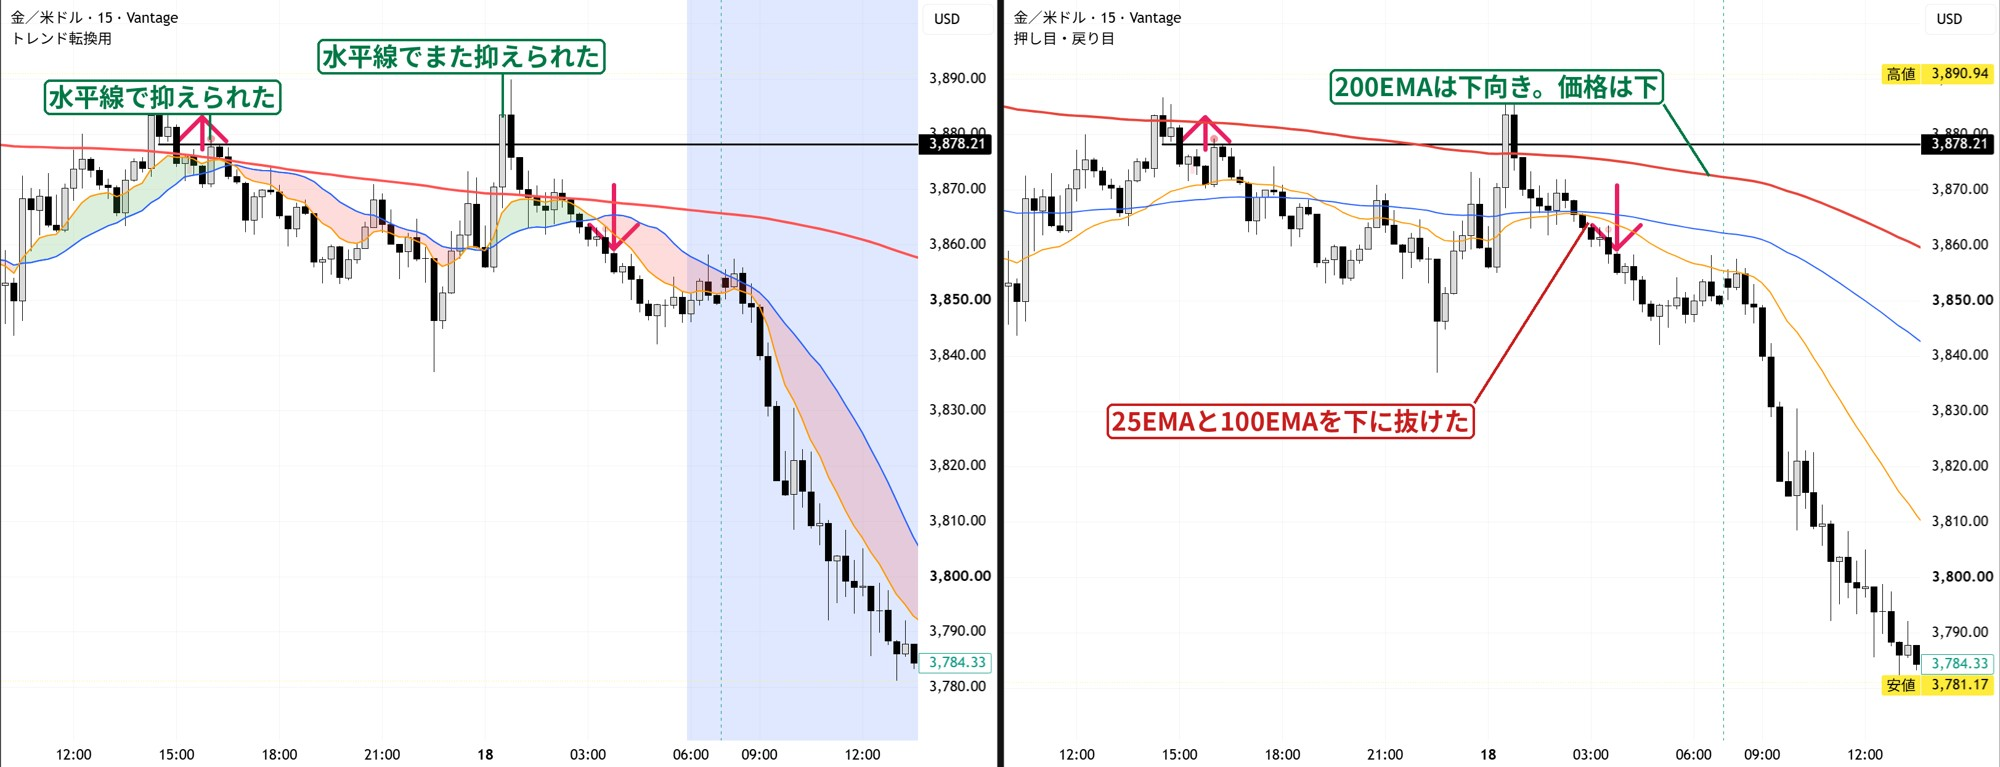
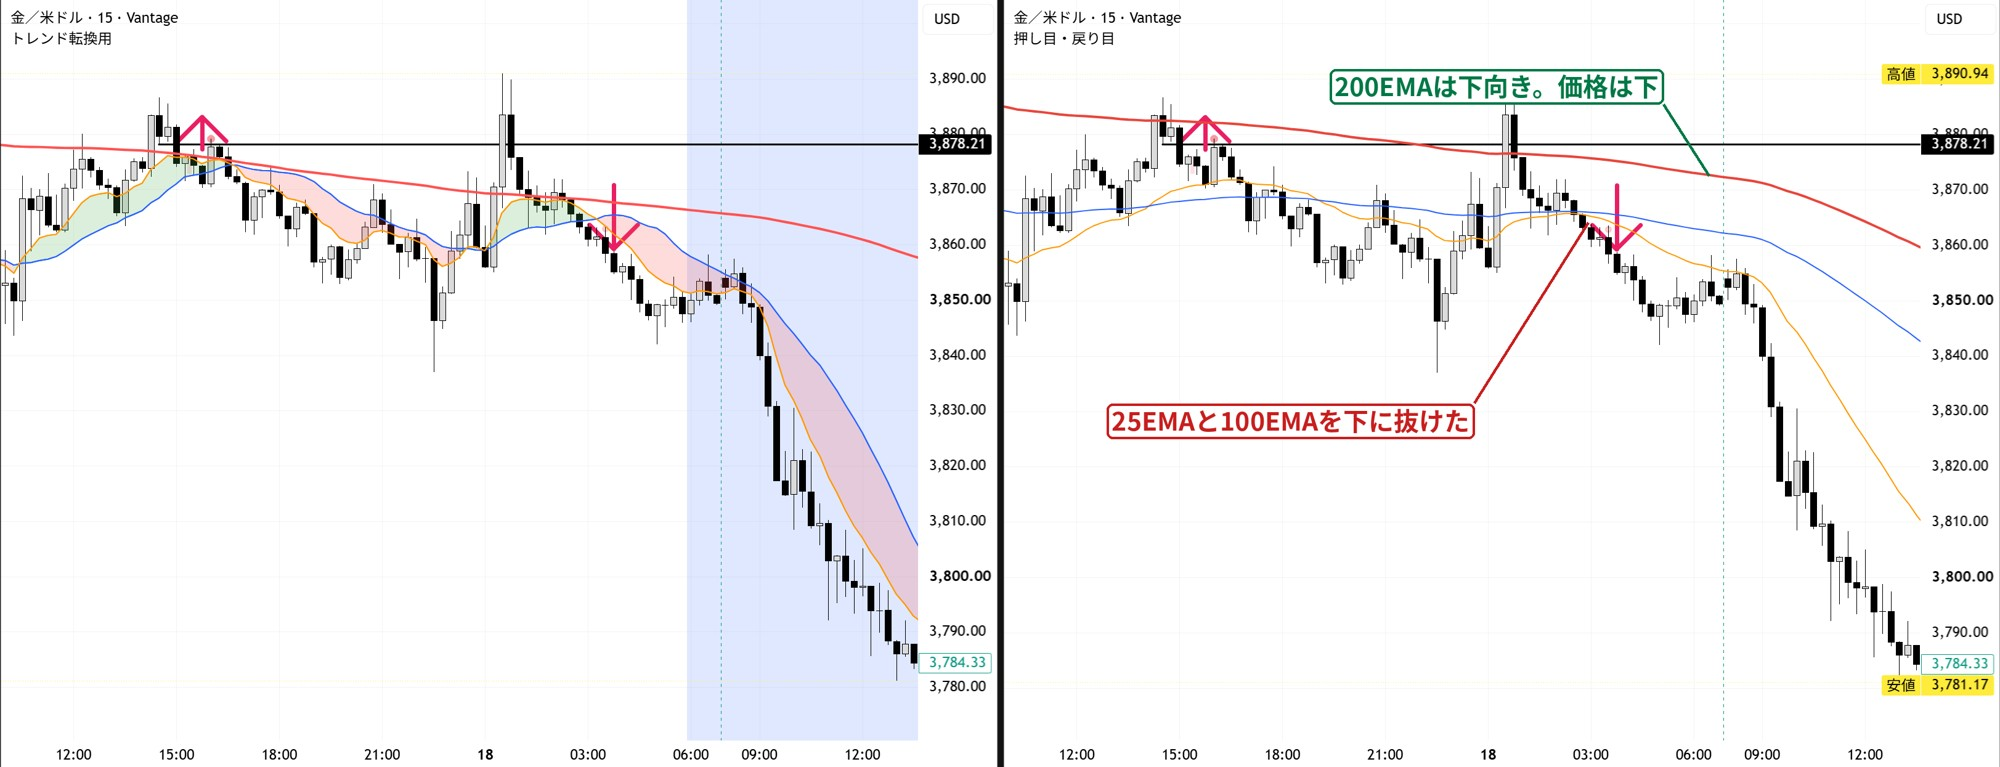
例19: 水平線の記述とラベルを削除
Claude-Session: https://claude.ai/code/session_01HxS9YaEfLR2yPnioVsHz63

Changed region(s): [[0.0, 0.03, 0.31, 0.1799]]

diff --git a/reversal.html b/reversal.html
@@ -95,11 +95,11 @@ body.lb-open { overflow: hidden; }
     </figure>
     <h3 class="part">15分足</h3>
     <figure class="pic wide">
-      <a href="methods/rev-start-15m.jpg"><img src="methods/rev-start-15m.jpg" alt="15分足。水平線で2回抑えられて、25EMAと100EMAを下に抜けた" loading="lazy"></a>
+      <a href="methods/rev-start-15m.jpg"><img src="methods/rev-start-15m.jpg" alt="15分足。25EMAと100EMAを下に抜けた" loading="lazy"></a>
     </figure>
     <ul class="cap3">
       <li><b>こういう初動に入れるといい。</b></li>
-      <li><b>上位足（15分足）：</b>水平線で2回抑えられた。200EMAは下向きで、価格は200EMAの下。25EMAと100EMAを下に抜けた。</li>
+      <li><b>上位足（15分足）：</b>200EMAは下向きで、価格は200EMAの下。25EMAと100EMAを下に抜けた。</li>
       <li><b>1分足：</b>戻りが25EMAに抑えられた。200・100・25EMAが、3本とも下向き。</li>
       <li><b>2分足・5分足：</b>戻りが25EMAに抑えられた。25EMAは、100EMAと200EMAの下にある。</li>
       <li>戻りが抑えられたあと、大きく下げた。損切りは、戻りの高値の上。近くに置ける。</li>
